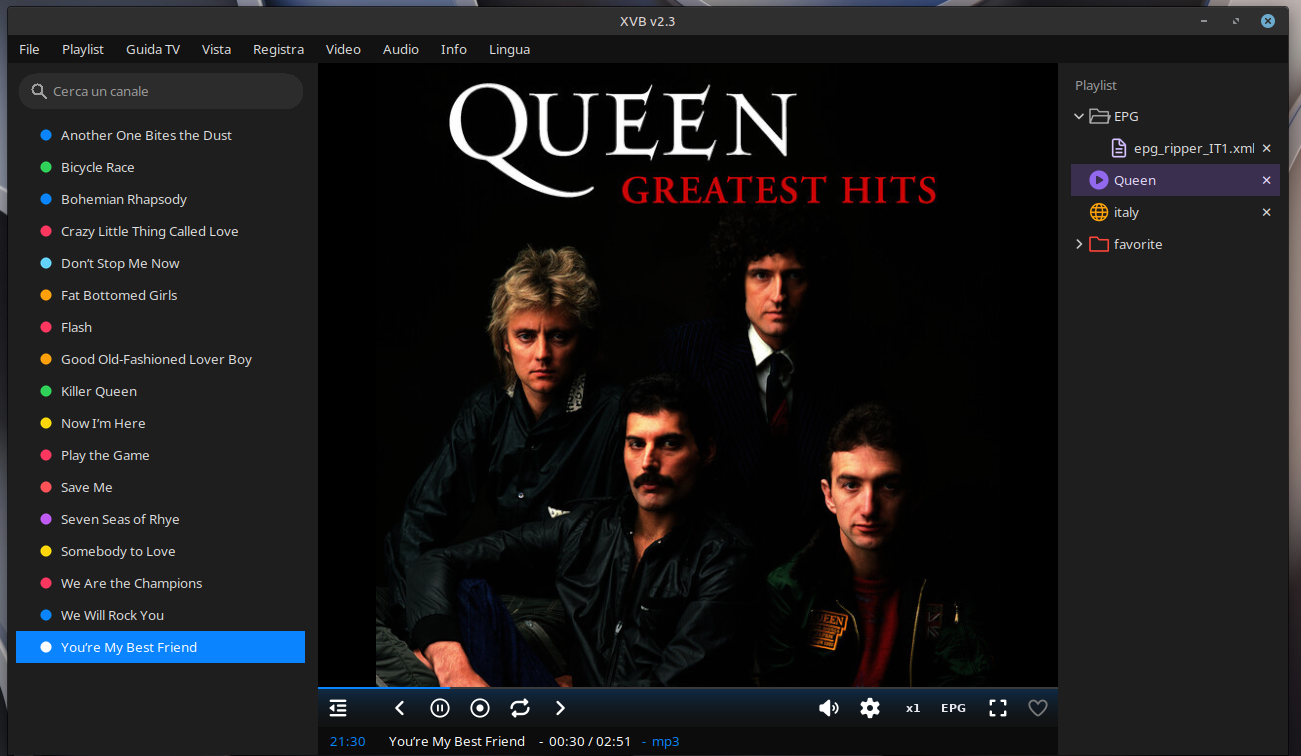
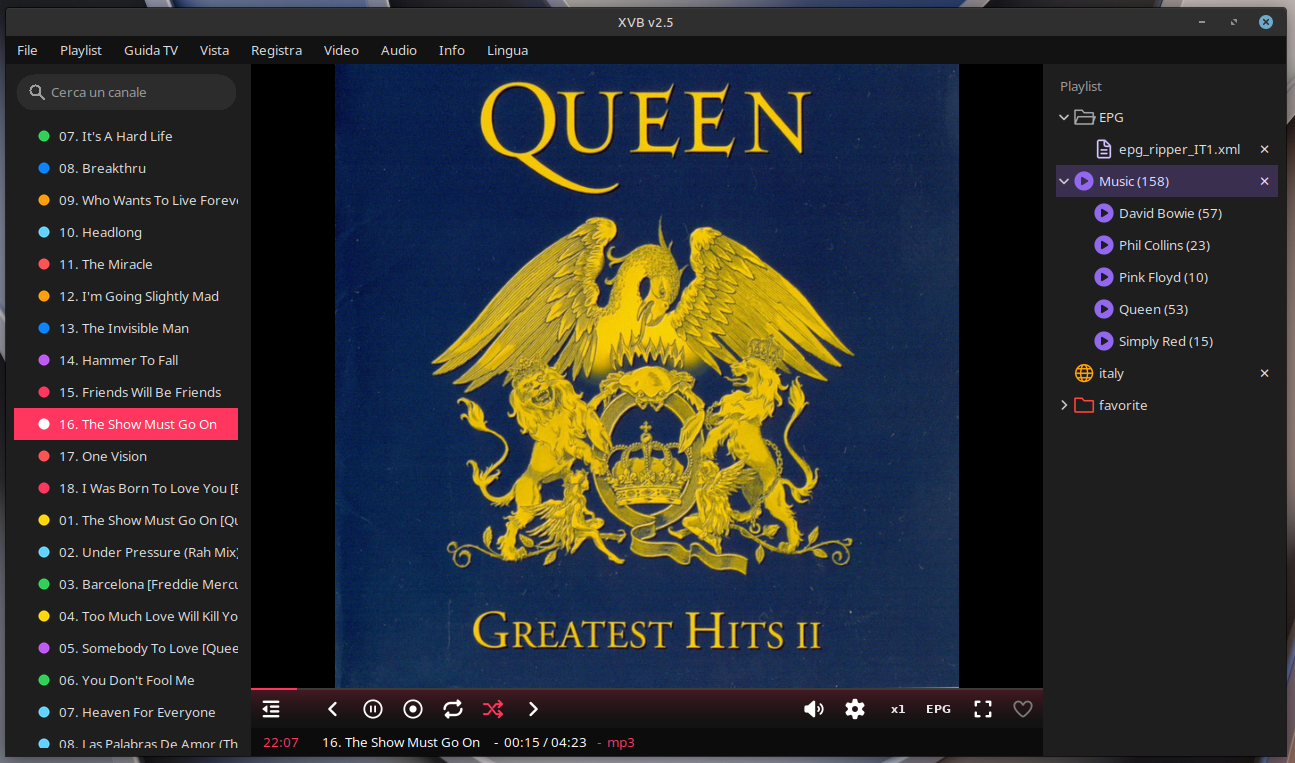
aggiornato

diff --git a/xvb.py b/xvb.py
@@ -21,6 +21,7 @@ import hashlib
 import json
 import math
 import os
+import random
 import re
 import subprocess
 import sys
@@ -40,7 +41,7 @@ try:                            # per i loghi: ridimensiona e legge i jpg
 except ImportError:             # senza, si va di PhotoImage: solo png
     HA_PIL = False
 
-VERSIONE = "2.3"
+VERSIONE = "2.5"
 AUTORE = "Jonathan Sanfilippo"
 ANNO = "2026"
 REPO = "JonaDev2026/xvb"        # dove stanno le release, per l'avviso di aggiornamento
@@ -192,7 +193,7 @@ TESTI = {
         "cannot open %s: %s": "non riesco ad aprire %s: %s",
         "Pause": "Pausa", "Resume": "Riprendi", "Favorite": "Preferito",
         "Fullscreen": "Schermo intero", "quality": "qualita'", "Mute": "Muto",
-        "Unmute": "Audio", "Switch": "Scambia",
+        "Unmute": "Audio", "Switch": "Scambia", "Shuffle": "Casuale",
         "Open folder": "Apri cartella", "Reload": "Ricarica", "Add URL": "Aggiungi url",
         "Remove": "Rimuovi", "View": "Vista", "Hide channels": "Nascondi canali",
         "Show channels": "Mostra canali", "Hide playlists": "Nascondi playlist",
@@ -315,7 +316,7 @@ TESTI = {
         "cannot open %s: %s": "no puedo abrir %s: %s",
         "Pause": "Pausa", "Resume": "Reanudar", "Favorite": "Favorito",
         "Fullscreen": "Pantalla completa", "quality": "calidad", "Mute": "Silencio",
-        "Unmute": "Sonido", "Switch": "Cambiar",
+        "Unmute": "Sonido", "Switch": "Cambiar", "Shuffle": "Aleatorio",
         "Open folder": "Abrir carpeta", "Reload": "Recargar", "Add URL": "Añadir URL",
         "Remove": "Quitar", "View": "Vista", "Hide channels": "Ocultar canales",
         "Show channels": "Mostrar canales", "Hide playlists": "Ocultar listas",
@@ -438,7 +439,7 @@ TESTI = {
         "cannot open %s: %s": "impossible d'ouvrir %s : %s",
         "Pause": "Pause", "Resume": "Reprendre", "Favorite": "Favori",
         "Fullscreen": "Plein écran", "quality": "qualité", "Mute": "Muet",
-        "Unmute": "Son", "Switch": "Basculer",
+        "Unmute": "Son", "Switch": "Basculer", "Shuffle": "Aléatoire",
         "Open folder": "Ouvrir le dossier", "Reload": "Recharger", "Add URL": "Ajouter une URL",
         "Remove": "Retirer", "View": "Affichage", "Hide channels": "Masquer les chaînes",
         "Show channels": "Afficher les chaînes", "Hide playlists": "Masquer les listes",
@@ -895,15 +896,20 @@ def e_media(f):
 
 
 def media_in(cartella):
-    """I file audio/video dentro a una cartella, primo livello, per nome:
-    (nome senza estensione, percorso, None) come i canali."""
+    """I file audio/video dentro a una cartella e a tutte le sue
+    sottocartelle (quelle nascoste no), in ordine di percorso cosi' gli
+    album restano insieme: (nome senza estensione, percorso, None) come i
+    canali."""
+    fuori = []
     try:
-        nomi = sorted(os.listdir(cartella), key=str.lower)
+        for dove, sotto, nomi in os.walk(cartella):
+            sotto[:] = sorted((d for d in sotto if not d.startswith(".")), key=str.lower)
+            for n in sorted(nomi, key=str.lower):
+                if not n.startswith(".") and e_media(n):
+                    fuori.append((os.path.splitext(n)[0], os.path.join(dove, n), None))
     except Exception:
-        return []
-    return [(os.path.splitext(n)[0], os.path.join(cartella, n), None)
-            for n in nomi if not n.startswith(".") and e_media(n)
-            and os.path.isfile(os.path.join(cartella, n))]
+        pass
+    return fuori
 
 
 def ore_min_sec(secondi):
@@ -1756,6 +1762,7 @@ class TV(object):
         self.file_in_onda = None            # la registrazione in riproduzione
         self.iid_reg, self.reg, self.reg_in_uso = {}, [], None
         self.iid_media, self.media_in_uso = {}, None     # cartelle e importati
+        self.ascoltati = []                 # i file passati, per il < in shuffle
         self.icona_finestra, self.icona_file = None, ""
         self.piano = None                            # (nome, url, ide, inizio, fine)
         self.ultima_discesa = 0.0
@@ -1804,7 +1811,7 @@ class TV(object):
                   "rec", "rec_stop",
                   "volume", "volume_high",
                   "volume_low", "volume_off", "muto", "pieno", "prima", "dopo",
-                  "aperto", "chiuso", "setting", "epg"):
+                  "aperto", "chiuso", "setting", "epg", "shuffle"):
             p = os.path.join(QUI, "icone", n + ".png")
             if os.path.isfile(p):
                 if HA_PIL:
@@ -1847,7 +1854,9 @@ class TV(object):
         self.tendina = Tendina(self.root)
         self.menu("File", lambda: [
             (_("Open file..."), self.apri_file),
-            (_("Open folder..."), self.apri_cartella_media)])
+            (_("Open folder..."), self.apri_cartella_media),
+            None,
+            (("*  " if self.cfg.get("shuffle") else "   ") + _("Shuffle"), self.shuffle)])
         self.menu("Playlists", lambda: [
             (_("Add URL"), self.chiedi_lista_url),
             (_("Open folder"), self.apri_cartella_liste),
@@ -2101,6 +2110,7 @@ class TV(object):
         self.b_pausa = self.tasto("pausa", _("Pause"), self.pausa, 8)
         self.b_rec = self.tasto("rec", _("Record"), self.registra)
         self.tasto("switch", _("Switch"), self.switch, 6)
+        self.b_shuffle = self.tasto("shuffle", _("Shuffle"), self.shuffle, 7)
         self.tasto("dopo", ">", lambda: self.salta(+1), 3)
         # a destra, da destra a sinistra: cuore, schermo intero, [EPG x1],
         # ingranaggio, volume col suo muto
@@ -2432,14 +2442,38 @@ class TV(object):
             if im is not None:
                 self.img_liste[f_pl] = im
         img_pl = self.img_liste.get(f_pl, self.vuoto)
-        media = [(("cartella", c), os.path.basename(c.rstrip(os.sep)) or c)
-                 for c in self.cfg.get("cartelle", [])]
-        if self.cfg.get("importati"):
-            media.append((("importati", None), _("Imported media")))
-        for chiave, nome in media:
-            iid = self.el_liste.insert("", "end", text=" " + nome, image=img_pl,
-                                       values=("\u2715",),
+        for c in self.cfg.get("cartelle", []):
+            # la cartella col totale dei file, e sotto, apribili, le sue
+            # sottocartelle dirette che hanno dei media, ognuna col suo
+            nome = os.path.basename(c.rstrip(os.sep)) or c
+            chiave = ("cartella", c)
+            sotto = []
+            try:
+                for d in sorted(os.listdir(c), key=str.lower):
+                    p = os.path.join(c, d)
+                    if not d.startswith(".") and os.path.isdir(p):
+                        n = len(media_in(p))
+                        if n:
+                            sotto.append((d, p, n))
+            except Exception:
+                pass
+            in_uso = self.media_in_uso and self.media_in_uso[0] == "cartella" and (
+                self.media_in_uso[1] == c or self.media_in_uso[1].startswith(c + os.sep))
+            iid = self.el_liste.insert("", "end", text=" %s (%d)" % (nome, len(media_in(c))),
+                                       image=img_pl, values=("\u2715",), open=bool(in_uso),
                                        tags=("usata",) if chiave == self.media_in_uso else ())
+            self.iid_media[iid] = chiave
+            for d, p, n in sotto:
+                k = ("cartella", p)
+                figlio = self.el_liste.insert(iid, "end", text=" %s (%d)" % (d, n),
+                                              image=img_pl,
+                                              tags=("usata",) if k == self.media_in_uso else ())
+                self.iid_media[figlio] = k
+        if self.cfg.get("importati"):
+            chiave = ("importati", None)
+            iid = self.el_liste.insert("", "end", text=" %s (%d)" % (
+                _("Imported media"), len(self.cfg["importati"])), image=img_pl,
+                values=("\u2715",), tags=("usata",) if chiave == self.media_in_uso else ())
             self.iid_media[iid] = chiave
         # poi le liste sciolte, e le categorie con le loro dentro
         gia = set()
@@ -2586,6 +2620,9 @@ class TV(object):
         self.ide_in_onda = None
         est = os.path.splitext(f)[1][1:].lower()
         self.et_formato.config(text=("  -  " + est) if est else "")
+        if f in self.ascoltati:
+            self.ascoltati.remove(f)
+        self.ascoltati.append(f)
         self.varianti, self.quale = [], -1
         self.da_riallineare = False
         self.attesa_da = time.time()
@@ -2942,8 +2979,21 @@ class TV(object):
         self.non_sul_verde(self.elenco, "onda")
 
     def salta(self, dove):
-        """Il canale prima o dopo, nell'elenco come lo si vede adesso."""
+        """Il canale prima o dopo, nell'elenco come lo si vede adesso. Con
+        lo shuffle acceso e un file in onda: > uno a caso, < quello sentito
+        prima."""
         if not self.visti:
+            return
+        if self.cfg.get("shuffle") and self.file_in_onda:
+            if dove > 0:
+                c = self.a_caso()
+            else:
+                prima = [f for f in self.ascoltati if f != self.file_in_onda]
+                c = next((x for x in self.visti if prima and x[1] == prima[-1]), None)
+                if c:
+                    self.ascoltati = [f for f in self.ascoltati if f not in (c[1], self.file_in_onda)]
+            if c:
+                self.vai_a_file(c)
             return
         adesso = self.file_in_onda or self.cfg.get("canale")
         i = getattr(self, "indice", -1)
@@ -2998,6 +3048,39 @@ class TV(object):
         acceso = bool(url) and self.e_preferito(leggi_preferiti(), url, self.nome_in_onda)
         self.faccia(self.b_pref, "favorite_on" if acceso else "favorite_off",
                     _("Favorite"))
+
+    def shuffle(self):
+        """Ordine casuale dei file (cartelle, importati, registrazioni):
+        a fine file e col > si passa a uno a caso non ancora sentito."""
+        self.cfg["shuffle"] = not self.cfg.get("shuffle")
+        scrivi_config(self.cfg)
+        self.ascoltati = [f for f in self.ascoltati if f == self.file_in_onda]
+        self.icona_shuffle()
+
+    def icona_shuffle(self):
+        """Bianca da spento, del colore del canale da acceso."""
+        if not hasattr(self, "b_shuffle"):
+            return
+        if self.cfg.get("shuffle") and HA_PIL and "shuffle" in self.icone_pil and self.colore_barra:
+            im = self.icone_pil["shuffle"].copy()
+            r, g, b = (int(self.colore_barra[k:k + 2], 16) for k in (1, 3, 5))
+            tinta = Image.new("RGBA", im.size, (r, g, b, 255))
+            tinta.putalpha(im.getchannel("A"))
+            self.icone_pil["shuffle_on"] = tinta
+            self.icone["shuffle_on"] = ImageTk.PhotoImage(tinta)
+            self.faccia(self.b_shuffle, "shuffle_on", _("Shuffle"))
+        else:
+            self.faccia(self.b_shuffle, "shuffle", _("Shuffle"))
+
+    def a_caso(self):
+        """Un file a caso fra quelli a sinistra, fra i non ancora sentiti;
+        finiti quelli, si ricomincia."""
+        file_ = [c for c in self.visti if c[1] != self.file_in_onda]
+        nuovi = [c for c in file_ if c[1] not in self.ascoltati]
+        if not nuovi:
+            self.ascoltati = [f for f in self.ascoltati if f == self.file_in_onda]
+            nuovi = file_
+        return random.choice(nuovi) if nuovi else None
 
     def switch(self):
         """Torna al canale visto prima di questo; premuto ancora, torna
@@ -3849,6 +3932,7 @@ class TV(object):
         self.et_orologio.config(fg=colore)
         self.et_formato.config(fg=colore)
         self.colore_barra = colore
+        self.icona_shuffle()
         self.disegna_fondo_barra()
 
     def disegna_fondo_barra(self):
@@ -4006,13 +4090,22 @@ class TV(object):
         sinistra (cartella, importati, registrazioni), come una playlist.
         All'ultimo ci si ferma."""
         f = self.file_in_onda
+        if self.cfg.get("shuffle"):
+            c = self.a_caso()
+            if c:
+                self.vai_a_file(c)
+            return
         i = next((k for k, c in enumerate(self.visti) if c[1] == f), -1)
         if i < 0 or i + 1 >= len(self.visti):
             return
-        if self.elenco.exists(str(i + 1)):
-            self.elenco.selection_set(str(i + 1))
-            self.elenco.see(str(i + 1))
-        nome, url, ide = self.visti[i + 1]
+        self.vai_a_file(self.visti[i + 1])
+
+    def vai_a_file(self, c):
+        nome, url, ide = c
+        i = next((k for k, x in enumerate(self.visti) if x[1] == url), -1)
+        if i >= 0 and self.elenco.exists(str(i)):
+            self.elenco.selection_set(str(i))
+            self.elenco.see(str(i))
         self.apri(nome, url, ide)
 
     def canale_morto(self):
